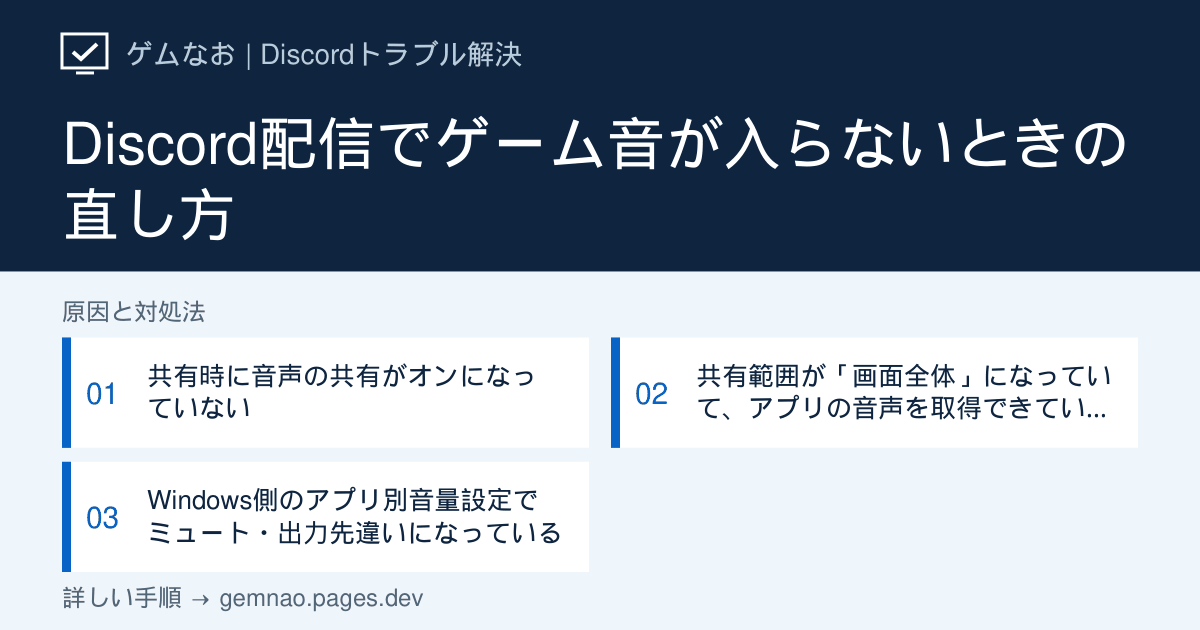
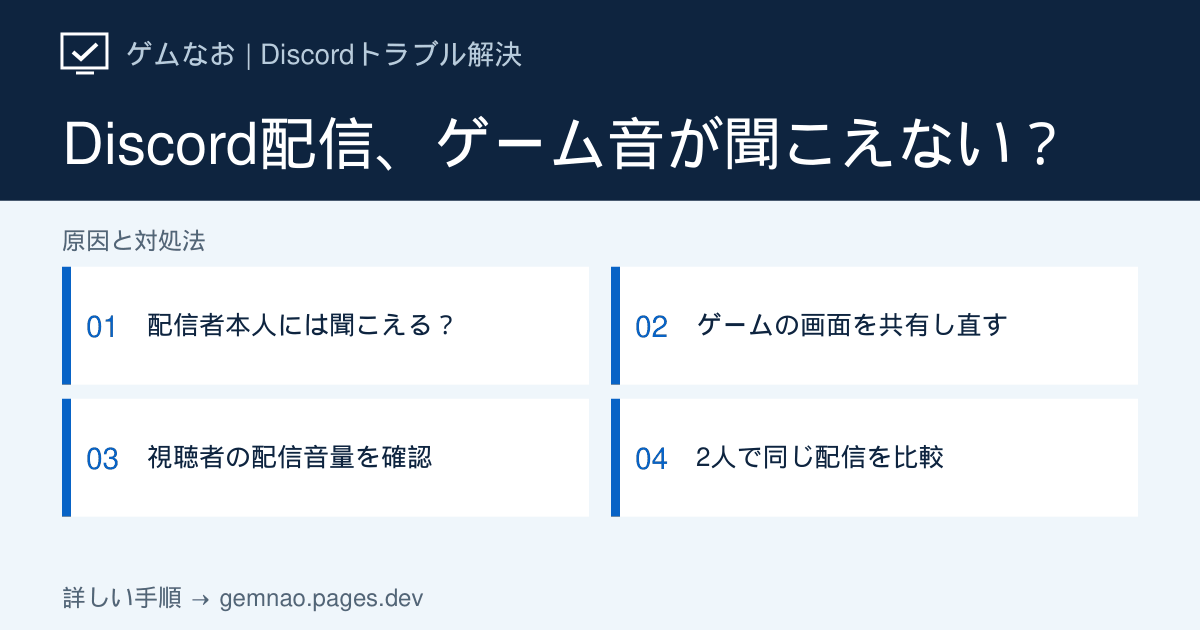
Rewrite Discord stream audio guide with broadcaster and viewer diagnosis

diff --git a/lib/discord-articles.ts b/lib/discord-articles.ts
@@ -34,6 +34,8 @@ export type DiscordArticle = {
   quickFixes: string[];
   /** Where sharing fails, how to confirm it, and the cause section to follow. */
   diagnosis?: { symptom: string; check: string; causeIndex: number }[];
+  diagnosisTitle?: string;
+  diagnosisIntro?: string;
   causes: DiscordCause[];
   ifNotFixed: string;
   faqs: { question: string; answer: string }[];
@@ -606,73 +608,146 @@ const existingDiscordArticles: DiscordArticle[] = [
   {
     slug: 'stream-no-audio',
     category: 'screen',
-    title: 'Discord配信でゲーム音が入らないときの直し方',
-    shortTitle: '配信に音が入らない',
-    seoTitle: 'Discord配信でゲーム音が入らないときの直し方',
+    title: 'Discord配信でゲーム音が入らない・相手に聞こえない時の直し方',
+    shortTitle: '配信でゲーム音が入らない',
+    seoTitle: 'Discord配信でゲーム音が入らない時の直し方｜視聴者側も確認',
     metaDescription:
-      '画面共有・配信で自分のマイクは届いているのにゲーム音やアプリ音が相手に聞こえない時の対処法です。マイクの問題とは切り分けて確認します。',
+      'Discord配信でゲーム音が相手に聞こえないときは、全員か一人だけかを確認。共有するアプリ、配信者のWindows音量ミキサー、視聴者の配信音量を分けて解決します。音声共有の項目がない場合も案内。',
     symptom:
-      '画面共有や配信中に、自分の声（マイク）は相手に届いているのに、ゲーム音やアプリの音声だけが聞こえないと言われる場合の手順です。マイクが反応しない症状とは原因が異なります。',
-    target: 'Windows版 Discordデスクトップアプリ',
+      '映像や自分の声は届くのに、ゲームの音だけ相手に聞こえない。まず同じ配信を2人に開いてもらい、全員が無音か1人だけ無音かを比べます。原因が違うので、設定を変える人も変わります。',
+    target: '配信者：Windows版Discordデスクトップアプリ／視聴者：Discord',
     conclusion:
-      '共有開始時の「音声を共有」設定を確認し、次に共有範囲を画面全体ではなくアプリ単体に切り替え、最後にWindowsのアプリ別音量設定を確認します。',
+      '配信者もゲーム音が聞こえなければWindowsの音量ミキサーへ。配信者には聞こえるのに全員が無音なら、共有対象をゲームのアプリに選び直して比較。1人だけ無音なら、その視聴者が配信のミュートと音量を確認します。',
     quickFixes: [
-      '画面共有を開始する際に「音声を共有」がオンになっているか確認する',
-      '画面全体ではなく、対象アプリを個別に選んで共有し直す',
-      'Discordを再起動してから、共有をやり直す',
+      '配信者がゲーム音を聞けるか、同じ配信を見ている2人には聞こえるか比べる',
+      '全員が無音なら、ゲームを起動したまま「アプリケーション」からそのウィンドウを選び直す',
+      '1人だけ無音なら、視聴者が配信画面を右クリックし、ミュートと配信の音量を確認する',
+    ],
+    diagnosisTitle: '誰に聞こえない？ 共有方法・配信者・視聴者の確認表',
+    diagnosisIntro:
+      '同じ場面でゲーム音を鳴らし、配信者本人と視聴者2人に聞こえるか確かめてください。マイクの声と配信のゲーム音は分けて判定します。',
+    diagnosis: [
+      {
+        symptom: '配信者本人もゲーム音が聞こえない',
+        check:
+          'ゲーム中にWindowsの音量ミキサーを開き、ゲームのミュート・出力先を確認',
+        causeIndex: 1,
+      },
+      {
+        symptom: '配信者には聞こえるが、視聴者全員は無音',
+        check:
+          '「画面全体」とゲームの「アプリケーション」を1回ずつ共有して比べる',
+        causeIndex: 2,
+      },
+      {
+        symptom: '「音声を共有」が見つからない',
+        check:
+          'Windows版デスクトップアプリか確認。項目がない場合もゲームのウィンドウを選んで比較',
+        causeIndex: 2,
+      },
+      {
+        symptom: '同じ配信で1人だけゲーム音が聞こえない',
+        check: 'その人の配信画面のミュート・配信音量・Discordの出力先を確認',
+        causeIndex: 3,
+      },
+      {
+        symptom: '別のアプリの音は届くが、このゲームだけ無音',
+        check:
+          'ゲーム内音量とWindowsのゲーム別出力先、共有するウィンドウを照合',
+        causeIndex: 4,
+      },
     ],
     causes: [
       {
-        title: '共有時に音声の共有がオンになっていない',
+        title: '配信者側：ゲームの音量と出力先を確認する',
         description:
-          '画面共有はデフォルトで映像のみのことがあり、音声を一緒に送るには別途オンにする必要があります。',
+          '配信者本人にもゲーム音が聞こえないなら、共有設定を変える前にゲーム側の音を出します。Windowsではアプリごとにミュートや出力先を設定できます。',
         actions: [
-          '通話画面の共有ボタンを押し、共有対象を選ぶ画面を開く',
-          '「音声を共有」のトグルがオンになっているか確認する',
-          'オフだった場合はオンにしてから共有を開始する',
+          'ゲームで音が出る場面を再生し、配信者自身のヘッドホンやスピーカーで聞こえるか確認する',
+          'Windows 11の「スタート」→「設定」→「システム」→「サウンド」→「音量ミキサー」を開く',
+          '「アプリ」のゲームがミュートなら解除し、音量を上げる。見当たらない場合はゲームで音を再生したまま一覧を見直す',
+          'ゲームの「出力デバイス」が聞いているヘッドホンなどと違えば正しい機器を選び、本人に聞こえる状態にしてから配信で再確認する',
         ],
+        note: 'ゲーム音が本人に聞こえても、Discordが必ず取得できているとは限りません。全員に届かなければ次の共有方法を比較します。',
       },
       {
-        title:
-          '共有範囲が「画面全体」になっていて、アプリの音声を取得できていない',
+        title: '共有方法：ゲームのアプリと画面全体を比べる',
         description:
-          'アプリ単体ではなく画面全体を共有している場合、環境によってはアプリの音声だけが取得できないことがあります。',
+          '配信者はゲーム音を聞けるのに全員に届かない場合は、共有している対象と音声の取得を比べます。画面全体が必ず無音になるわけではありません。',
         actions: [
-          '共有を止めて、共有対象の選択画面を開き直す',
-          '「画面」ではなく、対象のゲーム・アプリのウィンドウを個別に選ぶ',
-          'ユーザー設定の「音声・ビデオ」にある画面共有の音声取得に関する項目（実験的な取得方式）を切り替えて再度試す',
+          'ゲームを起動したまま共有を停止し、Discordの画面共有アイコンから対象の選択画面を開く',
+          '共有対象にゲームの「アプリケーション」ウィンドウがあればそれを選んで配信し、視聴者に同じ場面の音を確認してもらう',
+          'まだ無音なら一度止めて「画面」から画面全体を選び、同じゲーム場面を比較する。片方だけ届けば届いた方法を使う',
+          '開始画面に「音声を共有」などの項目が表示される場合だけオンを確認する。見当たらなくても探し続けず、共有対象と利用環境を確認する',
         ],
+        note: 'Discord公式によると音声取得に対応するのはWindows/macOSのデスクトップ版、Chrome、モバイル版です。LinuxやChrome以外のブラウザはアプリ音声を共有できません。対象のWindowsアプリを選べない場合は、ゲームを起動し直してから選択画面を再確認します。',
       },
       {
-        title: 'Windows側のアプリ別音量設定でミュート・出力先違いになっている',
+        title: '視聴者側：配信のミュート・配信音量を確認する',
         description:
-          'Windowsのボリュームミキサーで対象アプリがミュートになっていたり、別の出力デバイスに割り当てられている場合、Discordが音声を拾えません。',
+          '同じ配信を見ている別の人には聞こえる場合、その視聴者の配信ごとの音量設定や出力先を先に見ます。ボイスチャンネルに入るだけでは配信の視聴開始になりません。',
         actions: [
-          'タスクバーのスピーカーアイコンを右クリックし「音量ミキサーを開く」を選ぶ',
-          '対象のゲーム・アプリの音量がミュートになっていないか確認する',
-          '出力先がDiscordの取得したい機器と同じになっているか確認する',
+          '視聴者が配信者の名前を選んで配信を開き、映像が動いていることを確認する',
+          '配信の映像を右クリックし、「ミュート」が有効なら解除。「配信の音量」のスライダーを上げる。表示される場合は映像上の音量アイコンも確認する',
+          'まだ聞こえなければ、視聴者のDiscord「ユーザー設定」→「音声・ビデオ」で出力デバイスを確認する',
+          '視聴者のWindows「設定」→「システム」→「サウンド」→「音量ミキサー」でDiscordがミュートされていないか確認し、再び同じ配信を開いて聞き比べる',
+        ],
+        note: '2人とも同じ配信が無音なら、個々の視聴者設定より共有方法と配信者の出力を先に確認します。',
+      },
+      {
+        title: '特定のゲームだけ無音：ゲーム内設定と共有対象を照合する',
+        description:
+          '別のアプリの音が同じ視聴者に届くなら、このゲームの音量・出力先・共有対象を個別に比べます。',
+        actions: [
+          'ゲーム内の「サウンド」や「オーディオ」でマスター音量と出力先を確認し、ゲーム内で音の出る場面を再生する',
+          '配信者のWindows音量ミキサーで、このゲームだけミュート・別の出力デバイスになっていないか確認する',
+          'Discordで共有中のアプリ名が実際に音を出しているゲームのウィンドウか照合する。起動ランチャーや別アプリを選んでいた場合は選び直す',
+          '同じ視聴者に他のアプリとこのゲームを順番に見てもらい、他は聞こえてこのゲームだけ無音か記録する',
         ],
       },
     ],
     ifNotFixed:
-      'ここまでの手順で直らない場合は、対象のゲームをDiscordの「アクティビティ」またはゲーム検出の一覧に手動で追加し、ゲームとして認識させたうえで共有を試してください。それでも改善しない場合は、視聴側の環境（相手の出力デバイス）が原因の可能性もあるため、別の参加者でも同じ症状が出るか確認してください。',
+      '配信者には聞こえ、共有方法を切り替えても全員に届かない場合はDiscordを再起動し、ゲームを起動してから共有を試してください。ゲームのウィンドウが選べない場合は「ユーザー設定」→「登録済みのゲーム」で対象ゲームの登録状況を確認します。改善しなければ、Discordのバージョン、共有した対象、ゲーム名、全員か1人だけか、マイクとゲーム音のどちらが届くかを記録してDiscordサポートに相談できます。',
     faqs: [
       {
-        question:
-          'マイクの声は聞こえるのに、ゲーム音だけ聞こえません。原因は同じですか？',
+        question: '「音声を共有」が表示されない場合、どこを直せばいい？',
         answer:
-          'いいえ、別の問題です。マイク音声はマイク入力の設定、ゲーム音は画面共有時の「音声を共有」設定が原因のことが多く、それぞれ別に確認する必要があります。',
+          '表示されない項目を探し続ける必要はありません。Windows版Discordデスクトップアプリでゲームのアプリウィンドウを共有し、視聴者に音が届くか試します。画面全体との差も比較してください。LinuxとChrome以外のブラウザではアプリ音声共有に対応していません。',
       },
       {
-        question: 'ブラウザ版でもアプリ音声を共有できますか？',
+        question: 'マイクの声は聞こえるのにゲーム音だけ無音なのはなぜ？',
         answer:
-          'ブラウザやOSによって対応状況が異なります。共有時に音声共有のオプションが表示されない場合は、デスクトップアプリでの利用を検討してください。',
+          'マイク通話とゲームの配信音声は確認する場所が異なります。マイクが聞こえてもゲーム音の共有成功は保証されません。配信者自身に音があるか、視聴者全員か1人だけかを判定し、上の表の該当手順を進めてください。',
+      },
+      {
+        question: '画面全体の共有では必ずゲーム音が消えますか？',
+        answer:
+          '必ず消えるわけではありません。Discordはアプリのウィンドウと画面全体の共有を案内しています。ゲームを起動したまま両方を同じ視聴者に試してもらい、実際に音が届く方法を選んでください。',
       },
     ],
-    sources: [streamingGuide],
-    related: ['error-1001', 'screen-share-not-working', 'error-1002'],
-    checkedAt: '2026-09-16',
+    sources: [
+      {
+        label:
+          'Discord公式：Go Liveと画面共有（共有方法・音声対応・視聴者の音量）',
+        url: 'https://support.discord.com/hc/ja/articles/360040816151-Go-Live%E3%81%A8%E7%94%BB%E9%9D%A2%E5%85%B1%E6%9C%89',
+      },
+      {
+        label:
+          'Microsoft公式：Windowsでアプリの音が出ない場合の音量ミキサー・出力先',
+        url: 'https://support.microsoft.com/ja-jp/windows/hardware/audio/fix-app-audio-not-working-while-system-sounds-work-in-windows',
+      },
+      streamingGuide,
+    ],
+    related: ['screen-share-not-working', 'error-1001', 'error-1002'],
+    checkedAt: '2026-09-27',
     status: 'verified',
+    ogTitle: 'Discord配信、ゲーム音が聞こえない？',
+    ogSteps: [
+      '配信者本人には聞こえる？',
+      'ゲームの画面を共有し直す',
+      '視聴者の配信音量を確認',
+      '2人で同じ配信を比較',
+    ],
   },
   {
     slug: 'loading-stuck',

diff --git a/app/discord/[slug]/page.tsx b/app/discord/[slug]/page.tsx
@@ -210,10 +210,11 @@ export default async function DiscordArticlePage({
               aria-labelledby="discord-diagnosis-title"
             >
               <h2 id="discord-diagnosis-title">
-                どこで止まる？ 症状別の判定表
+                {item.diagnosisTitle ?? 'どこで止まる？ 症状別の判定表'}
               </h2>
               <p>
-                配信の開始前・視聴者側・共有対象のどこで失敗するかを確認してください。
+                {item.diagnosisIntro ??
+                  '配信の開始前・視聴者側・共有対象のどこで失敗するかを確認してください。'}
               </p>
               <table>
                 <thead>

diff --git a/lib/og-image-manifest.ts b/lib/og-image-manifest.ts
@@ -28,7 +28,7 @@ export const ogImageManifest: Record<string, string> = {
   "/discord/screen-share-black-screen": "038074d8",
   "/discord/screen-share-not-working": "950ea3dc",
   "/discord/slow-performance": "b69eb26c",
-  "/discord/stream-no-audio": "b7ccb434",
+  "/discord/stream-no-audio": "bfb2ee4d",
   "/discord/system-helper": "7455f630",
   "/discord/update-failed": "45c152bc",
   "/discord/user-volume-low": "47ca5d40",
